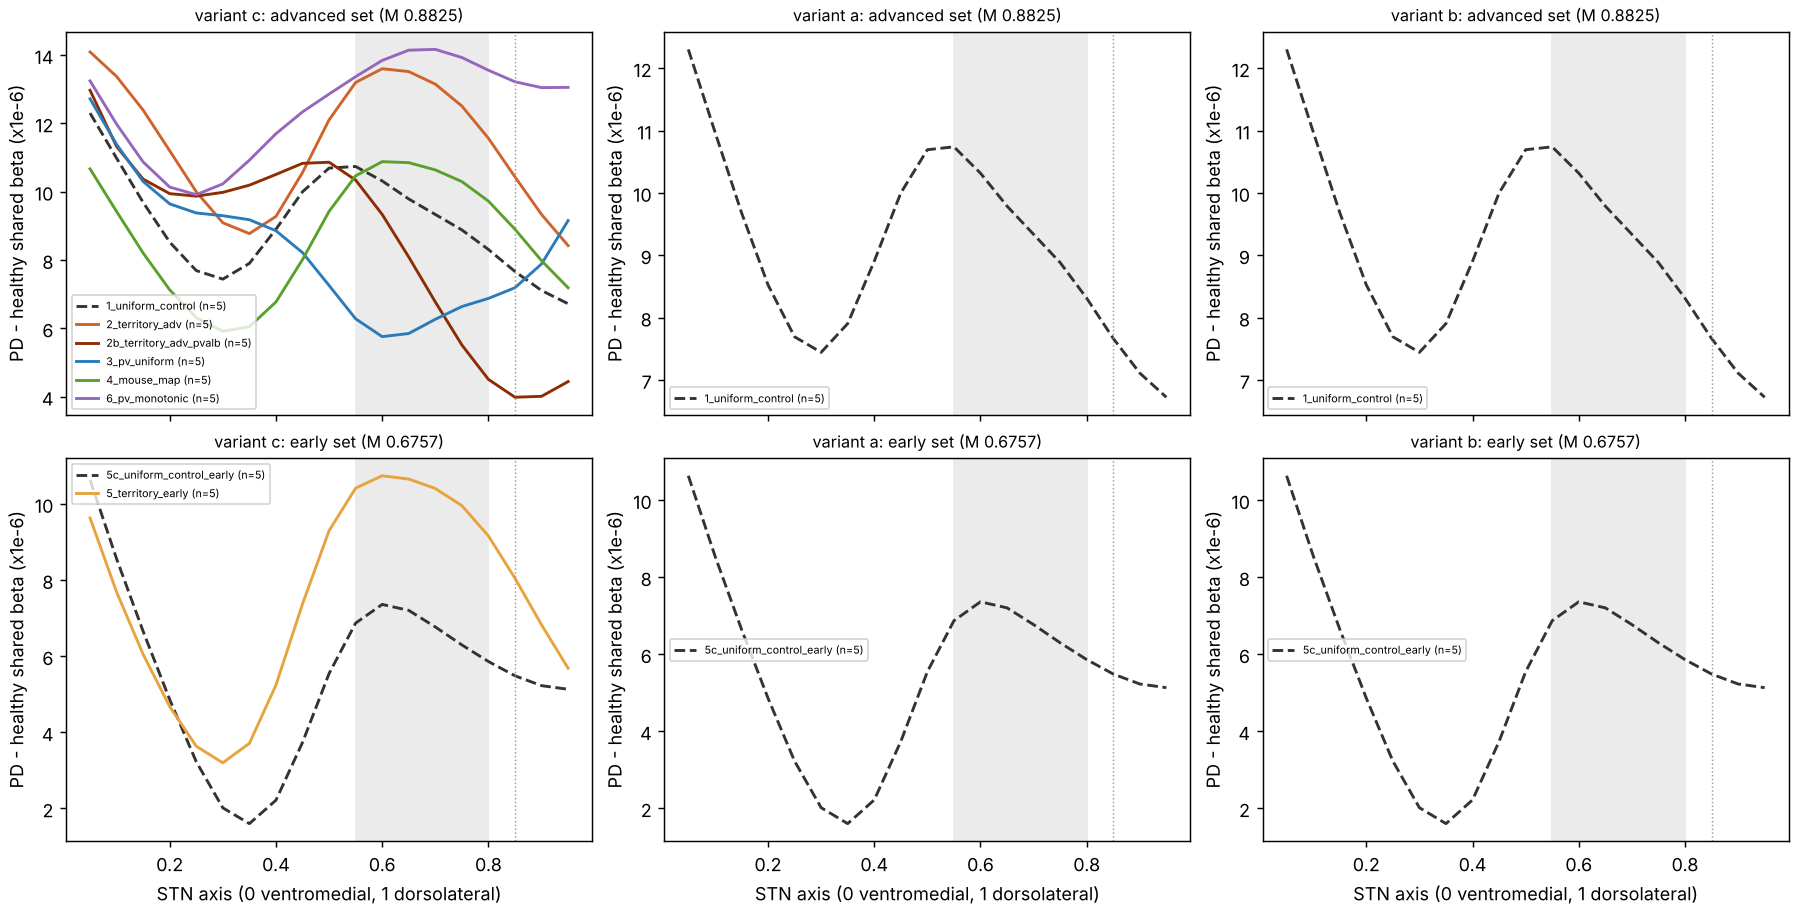
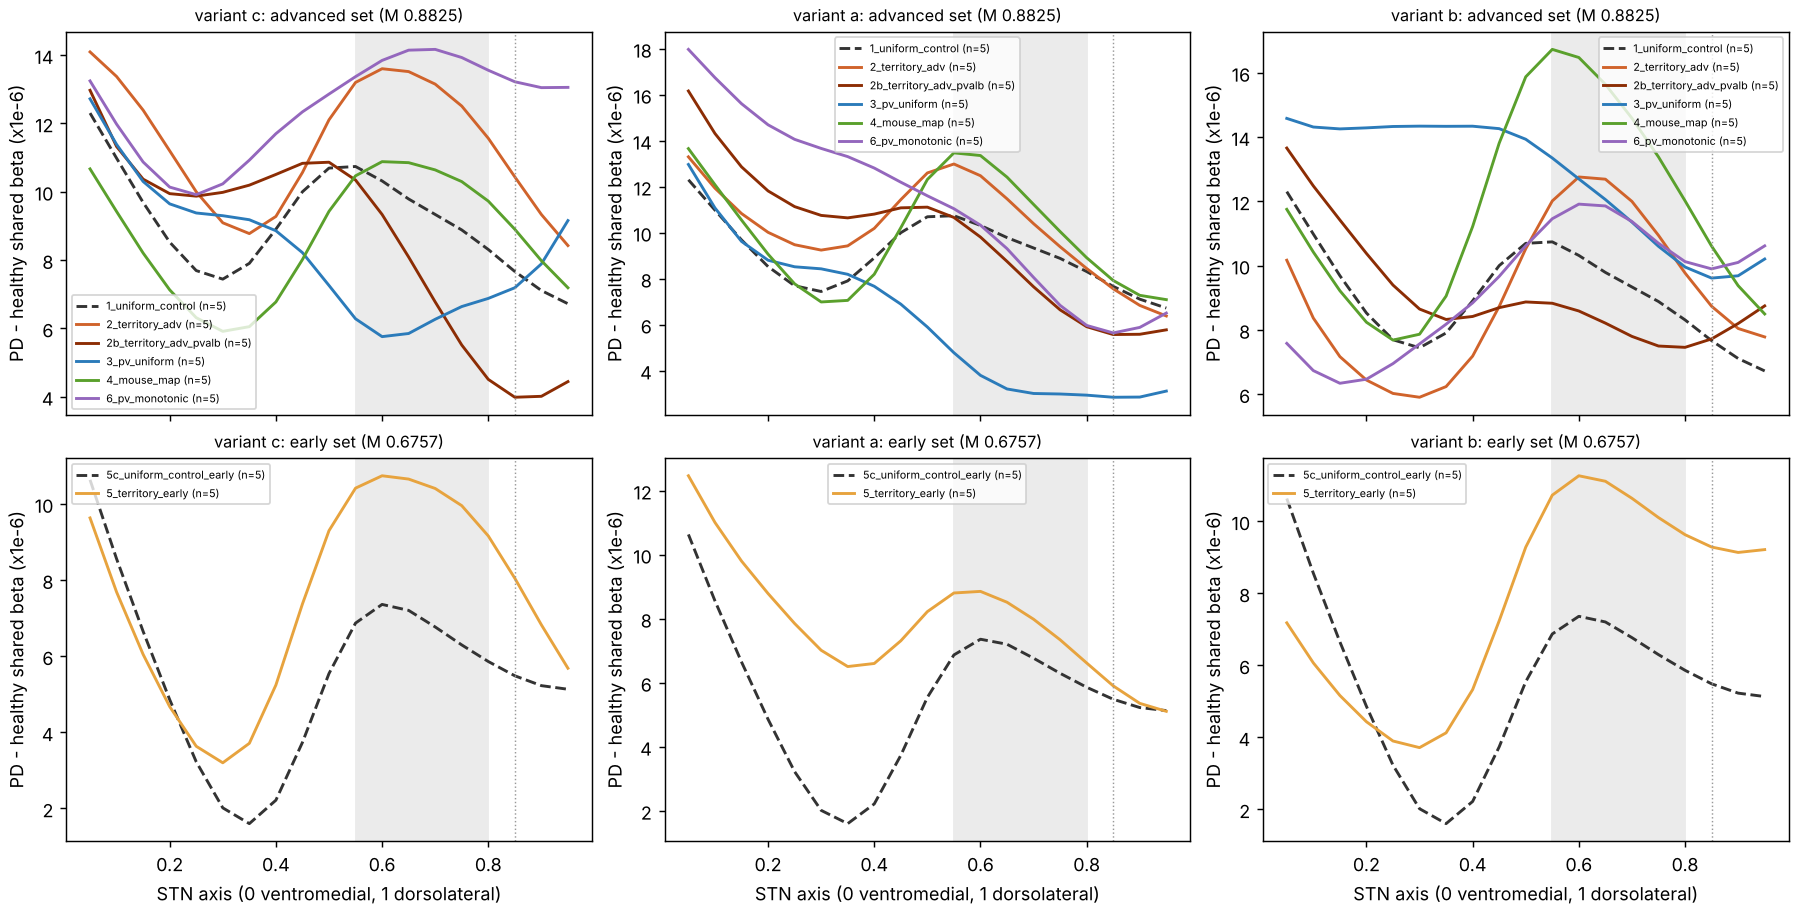
Drive topography: variants a/b (60 runs), full analysis and summary
Claude-Session: https://claude.ai/code/session_01Dqrw5j9uX2LQXyMYsnQn5b

diff --git a/results/drive_topography/summary.md b/results/drive_topography/summary.md
@@ -1,0 +1,98 @@
+# Data-derived PD drive topography — results, 2026-11-24
+
+Spec as implemented: `spec.md` (decisions A–F). Criteria and analysis (`analyze.py`) committed before any run.
+110 new runs (variant c: 40 PD + 10 healthy; variants a, b: 60 PD), 3 s each, input seeds 1–5 on one fixed network.
+**All runs succeeded; every PD run has beta (beta power 0.039–0.066); no readout was degenerate; nothing was retuned.**
+Files: `drive_runs.csv` (variant × condition × seed), `drive_summary.csv`, `verdict.json`, `difference_maps.png`.
+
+Variants: **c** = both hooks follow s(x) (GPe→STN synapse scale and GPe beta depth); **a** = synapse only (depth uniform
+at M); **b** = depth only (synapse uniform at 2.0). Controls 1 and 5c are the same runs in all three variants.
+
+## Verdict: the hypothesis does not survive (in any variant)
+
+"Maximum" = peak of the seed-mean PD − healthy shared-beta map (positions with n_eff ≥ 5), as fixed beforehand.
+
+| criterion | c (both) | a (synapse) | b (depth) |
+|---|---|---|---|
+| 1. cond 2 max in [0.55, 0.80] | **fail** (0.05) | **fail** (0.05) | pass (0.60) |
+| 2. cond 3 max > 0.85 | **fail** (0.05) | **fail** (0.05) | **fail** (0.05) |
+| 3. cond 6 max > 0.85 | **fail** (0.70) | **fail** (0.05) | **fail** (0.60) |
+| 4. cond 2 0.65/0.25 ratio > cond 1 (1.27) | pass (1.35) | **fail** (1.21) | pass (2.11) |
+| **survives** | **no** | **no** | **no** |
+
+Criteria 2 and 3 fail in every variant: with PV+ cells uniform (3) or ramped dorsally (6), the beta contrast does not
+move dorsal of 0.85. Under the territory drive the PD-specific beta sits at ~0.55–0.70 whatever the PV+ placement does
+(or at the ventral edge, below); it does not follow the drive × PV+ conjunction into the dorsolateral tip.
+
+## The ventral-edge maximum (read before the tables)
+
+Every condition, **including both uniform controls**, has a large PD − healthy value at the ventral edge (axis 0.05:
+PD ≈ 13–19, healthy ≈ 2.5–5.6, ×10⁻⁶). It is present under a uniform drive, so it is a property of this network in the
+PD state (one fixed wiring; decision A), not of the territory drive. Many "0.05" maxima above are this edge winning
+narrowly over an interior hump. Descriptively (not a criterion), the interior local maximum of the seed-mean map:
+
+| condition | c: edge / interior max | a: edge / interior max | b: edge / interior max |
+|---|---|---|---|
+| 1 uniform control | 12.3 / 0.55: 10.7 | (same) | (same) |
+| 2 territory, skew-normal PV+ | 14.1 / **0.60: 13.6** | 13.3 / 0.55: 13.0 | 10.2 / **0.60: 12.8** |
+| 2b territory, measured *Pvalb* | 13.0 / 0.50: 10.9 | 16.2 / 0.50: 11.1 | 13.7 / 0.50: 8.9 |
+| 3 uniform PV+ | 12.7 / none | 13.0 / none | 14.6 / 0.30–0.40: 14.3 |
+| 4 mouse map | 10.7 / 0.60: 10.9 | 13.7 / 0.55: 13.5 | 11.8 / **0.55: 16.7** |
+| 5 early | 9.6 / 0.60: 10.7 | 12.5 / 0.60: 8.9 | 7.2 / 0.60: 11.3 |
+| 5c uniform control, early | 10.6 / 0.60: 7.4 | (same) | (same) |
+| 6 monotonic PV+ | 13.2 / 0.70: 14.2 | 18.0 / none | 7.6 / 0.60: 11.9 |
+
+Even if the edge were excluded post hoc, criteria 2 and 3 would still fail (no interior maximum > 0.85 anywhere), so
+the negative does not hinge on the edge. Whether the edge is wiring-specific is the question for the follow-up with
+extra `seeds['loc']` / `seeds['conn']` draws.
+
+## 2 vs 2b: the interior peak depends on the skew-normal approximation
+
+| | cond 2 (skew-normal PV+) | cond 2b (measured *Pvalb*) |
+|---|---|---|
+| c: max / ratio | 0.05 (interior 0.60) / 1.35 | 0.05 (interior 0.50, barely above control) / **0.82** |
+| a: max / ratio | 0.05 (interior 0.55) / 1.21 | 0.05 / 0.79 |
+| b: max / ratio | **0.60 / 2.11** (criterion 1 met) | 0.05 / **0.87** |
+| seeds with max in [0.55, 0.80] (c / a / b) | 1 / 2 / 2 | 0 / 0 / 1 |
+
+**In the one variant where condition 2 meets criterion 1 (b), 2b does not, and 2b fails rule 4 in all three variants
+(ratio < condition 1's 1.27).** By the rule set in decision E, the interior peak of condition 2 is an artefact of the
+skew-normal PV+ placement: with the measured *Pvalb* fraction the territory drive gives no PD-specific contrast at
+0.65 above the uniform control. (Contrast with FU1, where the *graded* configuration-D drive kept a peak at 0.70 with
+the measured placement: the territory drive is broader and weaker at 0.65 than that hand-fitted drive.)
+
+## Checks in passing
+
+- **2 vs 4 (territory vs mouse map):** interior peak positions match (c 0.60 / 0.60; a 0.55 / 0.55; b 0.60 / 0.55).
+  The mouse-map drive gives the stronger 0.65/0.25 contrast in a and the clearest peak in b (4 / 5 seeds in range).
+- **5 vs 5c only (early weights; own uniform control at M 0.6757):** contrast gain over 5c is 1.31 (c), 0.49 (a),
+  1.28 (b). The interior peak stays at 0.60 in 5 and in 5c in every variant, so where 5 sharpens contrast (c, b) it
+  does so without moving the peak; in a it does not sharpen.
+- **Hook decomposition:** the depth hook carries the effect. Distributing beta depth by s(x) (b) gives the largest
+  interior contrast (cond 2 ratio 2.11, cond 4 interior 16.7); distributing only the synapse-scale change (a) gives
+  nothing above control (cond 2 ratio 1.21 < 1.27); both together (c) sit in between (1.35). Rates in b stay within
+  ~2% of configuration D.
+- **PV+:PV− pairwise shared beta:** PV+ > PV− in 95 / 100 distinct PD seed-runs; ratio of seed means 1.49–3.00 per
+  condition (cond 2: 2.51 / 2.24 / 2.69 in c / a / b). Consistent with the earlier result (1.85–3.96) but at the lower
+  end, and below the 2.4–3.4 range in 2b, 3 and 6 (1.49–2.27). The direction is robust; the size depends on PV+
+  placement.
+- **Rates:** all conditions within 3% of configuration D (`rate_change_vs_cfgD_pct`).
+- PV peak / sigma sweep: not run (the hypothesis already fails on criteria 2 and 3 in every variant).
+
+## Caveats
+
+- **Input seeds on one wiring** (decision A): every peak position is conditional on `seeds['loc'] = 1`,
+  `seeds['conn'] = 4`. No wiring-robustness claim.
+- **Depth scale M** (decision C): the advanced set runs at depth 0.8825, a ~12% weaker total beta drive than
+  configuration D, so absolute beta is not comparable with Table 3. Condition 1 is a new run at M 0.8825, not
+  `Dref_uni_pd`. Condition 5 (M 0.6757) is compared only with 5c.
+- The ventral-edge maximum is outside the drive and PV+ manipulations; it is why per-seed peaks are unstable (as for
+  configuration D, `Dref`: 3 / 5 seeds).
+- These are post-spec facts only; no criterion, parameter or binning was changed after the data.
+
+## One-line result
+
+A data-derived territory drive does not reproduce the interior-PD-beta-plus-PV+-dependence pattern: dorsal PV+
+placements do not move beta dorsally (criteria 2, 3 fail in all variants), condition 2's interior peak (0.60, met only
+with the depth hook alone) disappears with the measured *Pvalb* placement, and the drive's effect is carried by GPe
+beta depth, not by the GPe→STN synapse scale.
